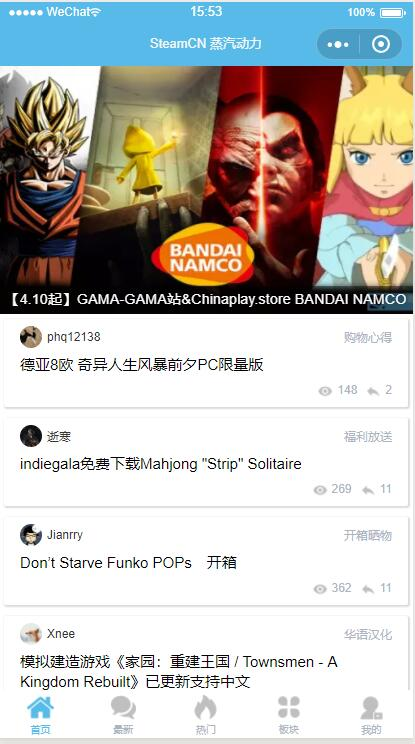
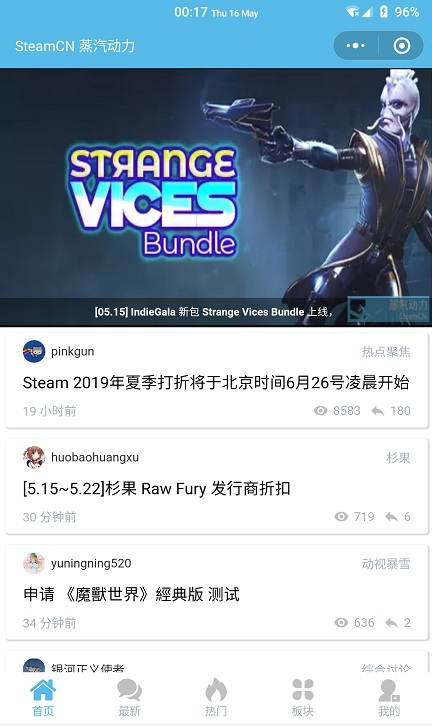
doc: update README
- Chinese README, no more english
- Modified some images

diff --git a/README.md b/README.md
@@ -1,41 +1,49 @@
-# SteamCN-Mini-Program
-This is an Unofficial SteamCN forum WeChat mini program. It can let you read SteamCN threads on your phone.(WeChat required)
+# SteamCN 蒸汽动力论坛 微信小程序
+这是 SteamCN 蒸汽动力论坛官方微信小程序。您可以使用本小程序查看 SteamCN 论坛上的帖子。当然前提是您拥有能正常使用的微信。（难道你们都没有手机嘛？😏）
 
-## Core Feature
-- Read forum threads
-- List recent threads
-- List recent hot threads
-- List newest replied threads
-- View threads in each sections
+## 小程序核心功能
+- 浏览 SteamCN 论坛中帖子的内容及坛友回复
+- 登录论坛账号，访问有阅读权限的帖子
+- 查看最新有价值的帖子
+- 查看近期最热门的帖子
+- 查看最新回复的帖子
+- 分板块查阅帖子
+- 记录小程序中的看帖历史
 
-## Scan QR code with WeChat
+更多开发计划见：https://github.com/xPixv/SteamCN-Mini-Program/projects/1
+
+## 现在就扫码体验吧~
 ![QRCode](resources/qrcode.jpg)
 
-## ScreenShots
-### Home
+## 部分截图展示
+
+### 主页
 ![Home](resources/Home.jpg)
 
-### Thread Preview
+### 查看帖子
 ![Thread Preview](resources/Thread.gif)
 
-### Section
+### 板块查看
 ![Section](resources/Section.gif)
 
-### Share in WeChat
-![Share](resources/Share.png)
+### 微信分享
+![Share](resources/Share.jpg)
 
-## Feedback
+## 更新日志
 
-More Plans at: https://github.com/xPixv/SteamCN-Mini-Program/issues/3
+见 CHANGELOG：https://github.com/xPixv/SteamCN-Mini-Program/blob/master/CHANGELOG.md
 
-Feedback in issue: https://github.com/xPixv/SteamCN-Mini-Program/issues
+## 反馈建议
 
-## License
-This project released under the [MIT License](https://github.com/xPixv/SteamCN-Mini-Program/blob/master/LICENSE)
+在 issue 中进行反馈：https://github.com/xPixv/SteamCN-Mini-Program/issues
 
-## Open source Credit ❤
+## 开源许可
+
+本小程序使用 [MIT](https://github.com/xPixv/SteamCN-Mini-Program/blob/master/LICENSE) 许可发布源代码
+
+## Open Source Credit ❤
 
 - [Taro](https://github.com/NervJS/taro) —— MIT
 - [wxParse](https://github.com/icindy/wxParse) —— MIT
 - [node-html-parser](https://github.com/taoqf/node-html-parser) —— Unlicensed
-- SteamCN Forum and SteamCN App resources
+- SteamCN 论坛及 SteamCN 论坛 App 资源
